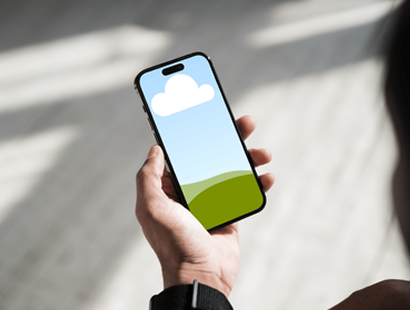
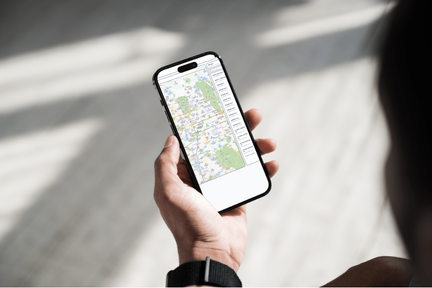
Add mainproject

diff --git a/src/components/home/MainProject.jsx b/src/components/home/MainProject.jsx
@@ -1,0 +1,69 @@
+import React from 'react'
+import './styles/MainProject.scss'
+import { motion as Motion, scale } from 'framer-motion'
+import { mainprojectList } from '../../utils/mainprojectList'
+import ProjectCard from '../projectCard/MainProjectCard'
+
+const containerVariants = {
+  hidden: {},
+  show: {
+    transition: {
+      staggerChildren: .15,
+    }
+  }
+}
+const itemVariants = {
+  hidden: {
+    opacity: 0,
+    y: 24
+  },
+  show: {
+    opacity: 1,
+    y: 0,
+    transition: {
+      duration: .3,
+      ease: [.22, 1, .36, 1]
+    }
+  }
+}
+
+const MainProject = () => {
+
+
+  return (
+    <div className="inner projects-inner">
+
+       
+        <h1 className="tit tit__">
+          Main Project
+        </h1>
+
+       
+
+      
+        
+        <Motion.div
+          variants={containerVariants}
+          initial="hidden"
+          whileInView="show"
+          viewport={{ amount: .2 }}
+          className="Main-grid">
+          {mainprojectList.map((p) => (
+            <Motion.div
+              key={p.title}
+              variants={itemVariants}
+            >
+
+              <ProjectCard
+                {...p}
+              />
+
+    
+            </Motion.div>
+          ))}
+        </Motion.div>
+      </div>
+  )
+}
+
+export default MainProject

diff --git a/src/components/projectCard/MainProjectCard.scss b/src/components/projectCard/MainProjectCard.scss
@@ -1,0 +1,60 @@
+
+@use '../../styles/themes' as *;
+.main-card {
+    width: 1440px;
+    height: 420px;
+    display: flex;
+    justify-content: space-between;
+    align-items: center;
+    overflow: hidden;
+    border: 1px solid var(--color-border);
+    background-color: var(--color-card-bg);
+    box-shadow: var(--shadow-sm);
+    transition: $transition-theme;
+    border-radius: $radius-md;
+    padding: 3rem;
+    .main-thumb{
+        width: 540px;
+        height: 360px;
+        border-radius: $radius-md;
+        overflow: hidden;
+        background: linear-gradient(
+            135deg,
+            var(--color-bg-muted),
+            var(--color-border)
+        );
+
+        
+    
+    }
+    .main-body {
+        width: 680px;
+        
+        display: flex;
+        flex-direction: column;
+        gap:$space-1;
+        padding:$space-3;
+
+        .main-card-tit {
+            font-size: $font-size-4xl;
+            font-weight: 700;
+        }
+        .main-tags {
+            display: flex;
+            gap: $space-1;
+            flex-wrap: wrap;             
+        }
+        .main-desc {
+            font-size: $font-size-2xl;
+            color:var(--color-text-muted);
+            min-height: 5rem;
+        }
+        .main-cta {
+            gap: $space-1;
+            display: flex;
+            margin-top: $space-1;
+        }
+
+        
+    }
+}

diff --git a/src/components/projectCard/MiniProjectCard.jsx b/src/components/projectCard/MiniProjectCard.jsx
@@ -1,0 +1,45 @@
+import React from 'react'
+import './MiniProjectCard.scss'
+import Tag from '../tag/Tag'
+const ProjectCard = ({
+    title,
+    description,
+    tags = [],
+    image,
+    imageAlt = ''
+}) => {
+    return (
+        <article className="mini-card">
+            <div className="mini-thumb">
+                <img 
+                        src={image} 
+                        alt={imageAlt || title} 
+                    />
+            </div>
+            <div className="mini-body">
+                <div className="mini-tags">
+                    {tags.map(({ label, variant }) => (
+                        <Tag key={label} variant={variant}>
+                            {label}
+                        </Tag>
+                    ))}
+                </div>
+                <h3 className="mini-card-tit">{title}</h3>
+                <p className="desc">
+                    {description}
+                </p>
+                <div className="mini-styles">
+                    <button className='btn btn__primary btn__md'>
+                            View
+                    </button>
+                    <button className='btn btn__outline btn__md'>
+                            Code
+                    </button>
+                </div>
+            </div>
+    
+        </article>
+    )
+}
+
+export default ProjectCard

diff --git a/src/components/home/styles/MainProject.scss b/src/components/home/styles/MainProject.scss
@@ -1,0 +1,29 @@
+@use '../../../styles/themes' as *;
+
+
+    
+    
+
+    .inner {
+        
+        background-color: var(--color-bg-muted);
+        transition: $transition-theme;
+        padding: $space-12 0;
+        
+        .Main-grid {
+            
+            display: flex;
+            flex-direction: column;
+            gap: $space-5;
+            margin-top: $space-3;
+            grid-template-columns: 1fr;
+            @media (min-width:768px){
+                grid-template-columns: repeat(2,1fr);
+                
+            }
+            @media (min-width:1024px){
+                grid-template-columns: repeat(3,1fr);
+                
+            }
+        }
+    }

diff --git a/src/utils/mainprojectList.js b/src/utils/mainprojectList.js
@@ -1,0 +1,29 @@
+import mainprojectPatacobo from '../assets/mainproject-patacobo.png'
+import mainprojectMOMENTRY from '../assets/mainproject-momentry.png'
+
+
+
+export const mainprojectList = [
+    {
+        title: 'PATACOBO',
+        description: 'TOCOBO 웹사이트 디자인 위주로  리뉴얼한 사이트',
+        tags: [
+            { label: 'React', variant: 'neutral' },
+            { label: 'Node', variant: 'info' },
+        ],
+        image: mainprojectPatacobo,
+        imageAlt:'타이머 프로젝트 화면',
+    },
+    {
+        title: 'MOMENTRY',
+        description: '여행의 추억을 담아 다른 사람들에세 공유하며 서로 소통 하는 사이트',
+        tags: [
+            { label: 'TypeScript', variant: 'neutral' },
+            { label: 'Testing', variant: 'success' },
+        ],
+        image: mainprojectMOMENTRY,
+        imageAlt:'날씨 앱 프로젝트 화면',
+    },
+    
+]
+

diff --git a/src/pages/Home.jsx b/src/pages/Home.jsx
@@ -5,7 +5,8 @@ import Header from '../components/home/Header'
 
 import Footer from '../components/home/Footer'
 import Skills from '../components/home/Skills'
-import Project from '../components/home/Project'
+import MiniProject from '../components/home/MiniProject'
+import MainProject from '../components/home/MainProject'
 import Contact from '../components/home/Contact'
 const Home = () => {
   
@@ -20,8 +21,11 @@ const Home = () => {
         <section id='Skills'>
           <Skills/>
         </section>
-        <section id='Project'>
-          <Project />
+        <section id='MiniProject'>
+          <MiniProject />
+        </section>
+        <section id='MainProject'>
+          <MainProject />
         </section>
         <section id='Contact'>
           <Contact />

diff --git a/src/components/home/Nav.jsx b/src/components/home/Nav.jsx
@@ -1,7 +1,7 @@
 import React from 'react'
 import useSmoothScroll from '../../hook/useSmoothScroll'
 const Nav = () => {
-  const navLink = ['Hero', 'Skills', 'Project', 'Contact']
+  const navLink = ['Hero', 'Skills', 'MiniProject','MainProject', 'Contact']
 
   const scrollTo = useSmoothScroll()
   return (

diff --git a/src/styles/_themes.scss b/src/styles/_themes.scss
@@ -9,6 +9,7 @@ $font-size-lg: 1.8rem; // 18px
 $font-size-xl: 2rem; // 20px
 $font-size-2xl: 2.4rem; // 24px
 $font-size-3xl: 3.2rem; // 32px
+$font-size-4xl: 4.4rem; // 44px
 
 
 $space-0: 0.4rem; // 8px